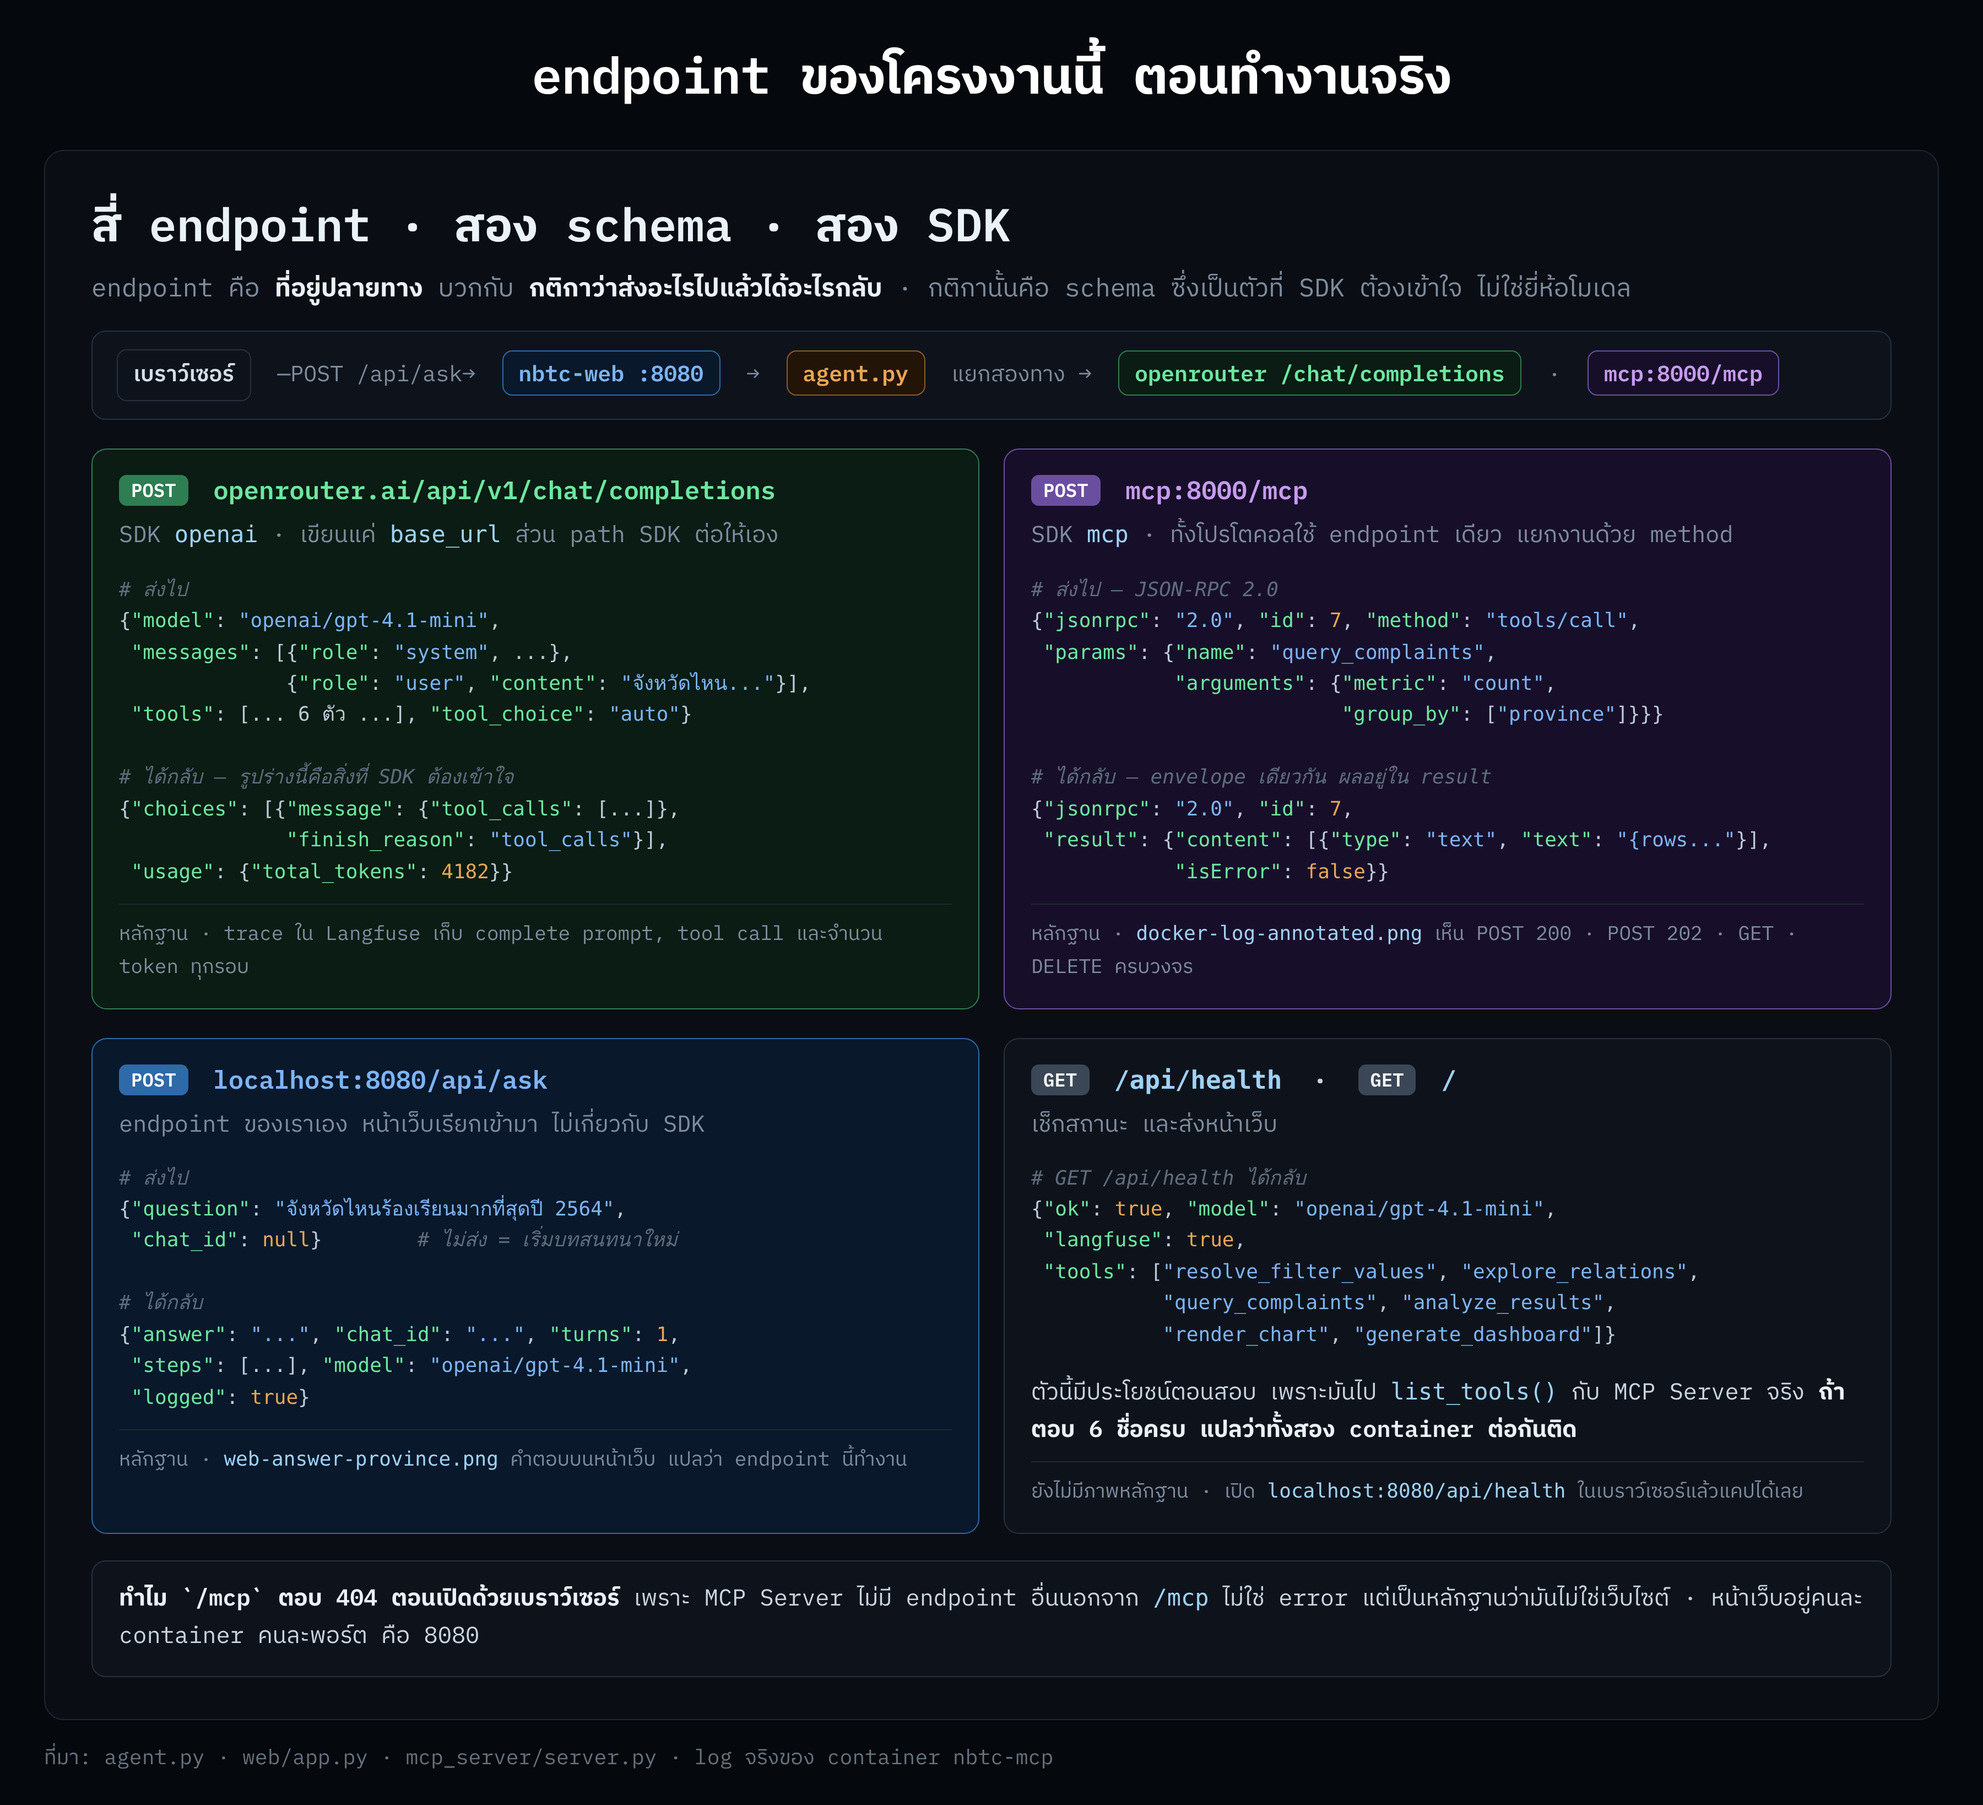
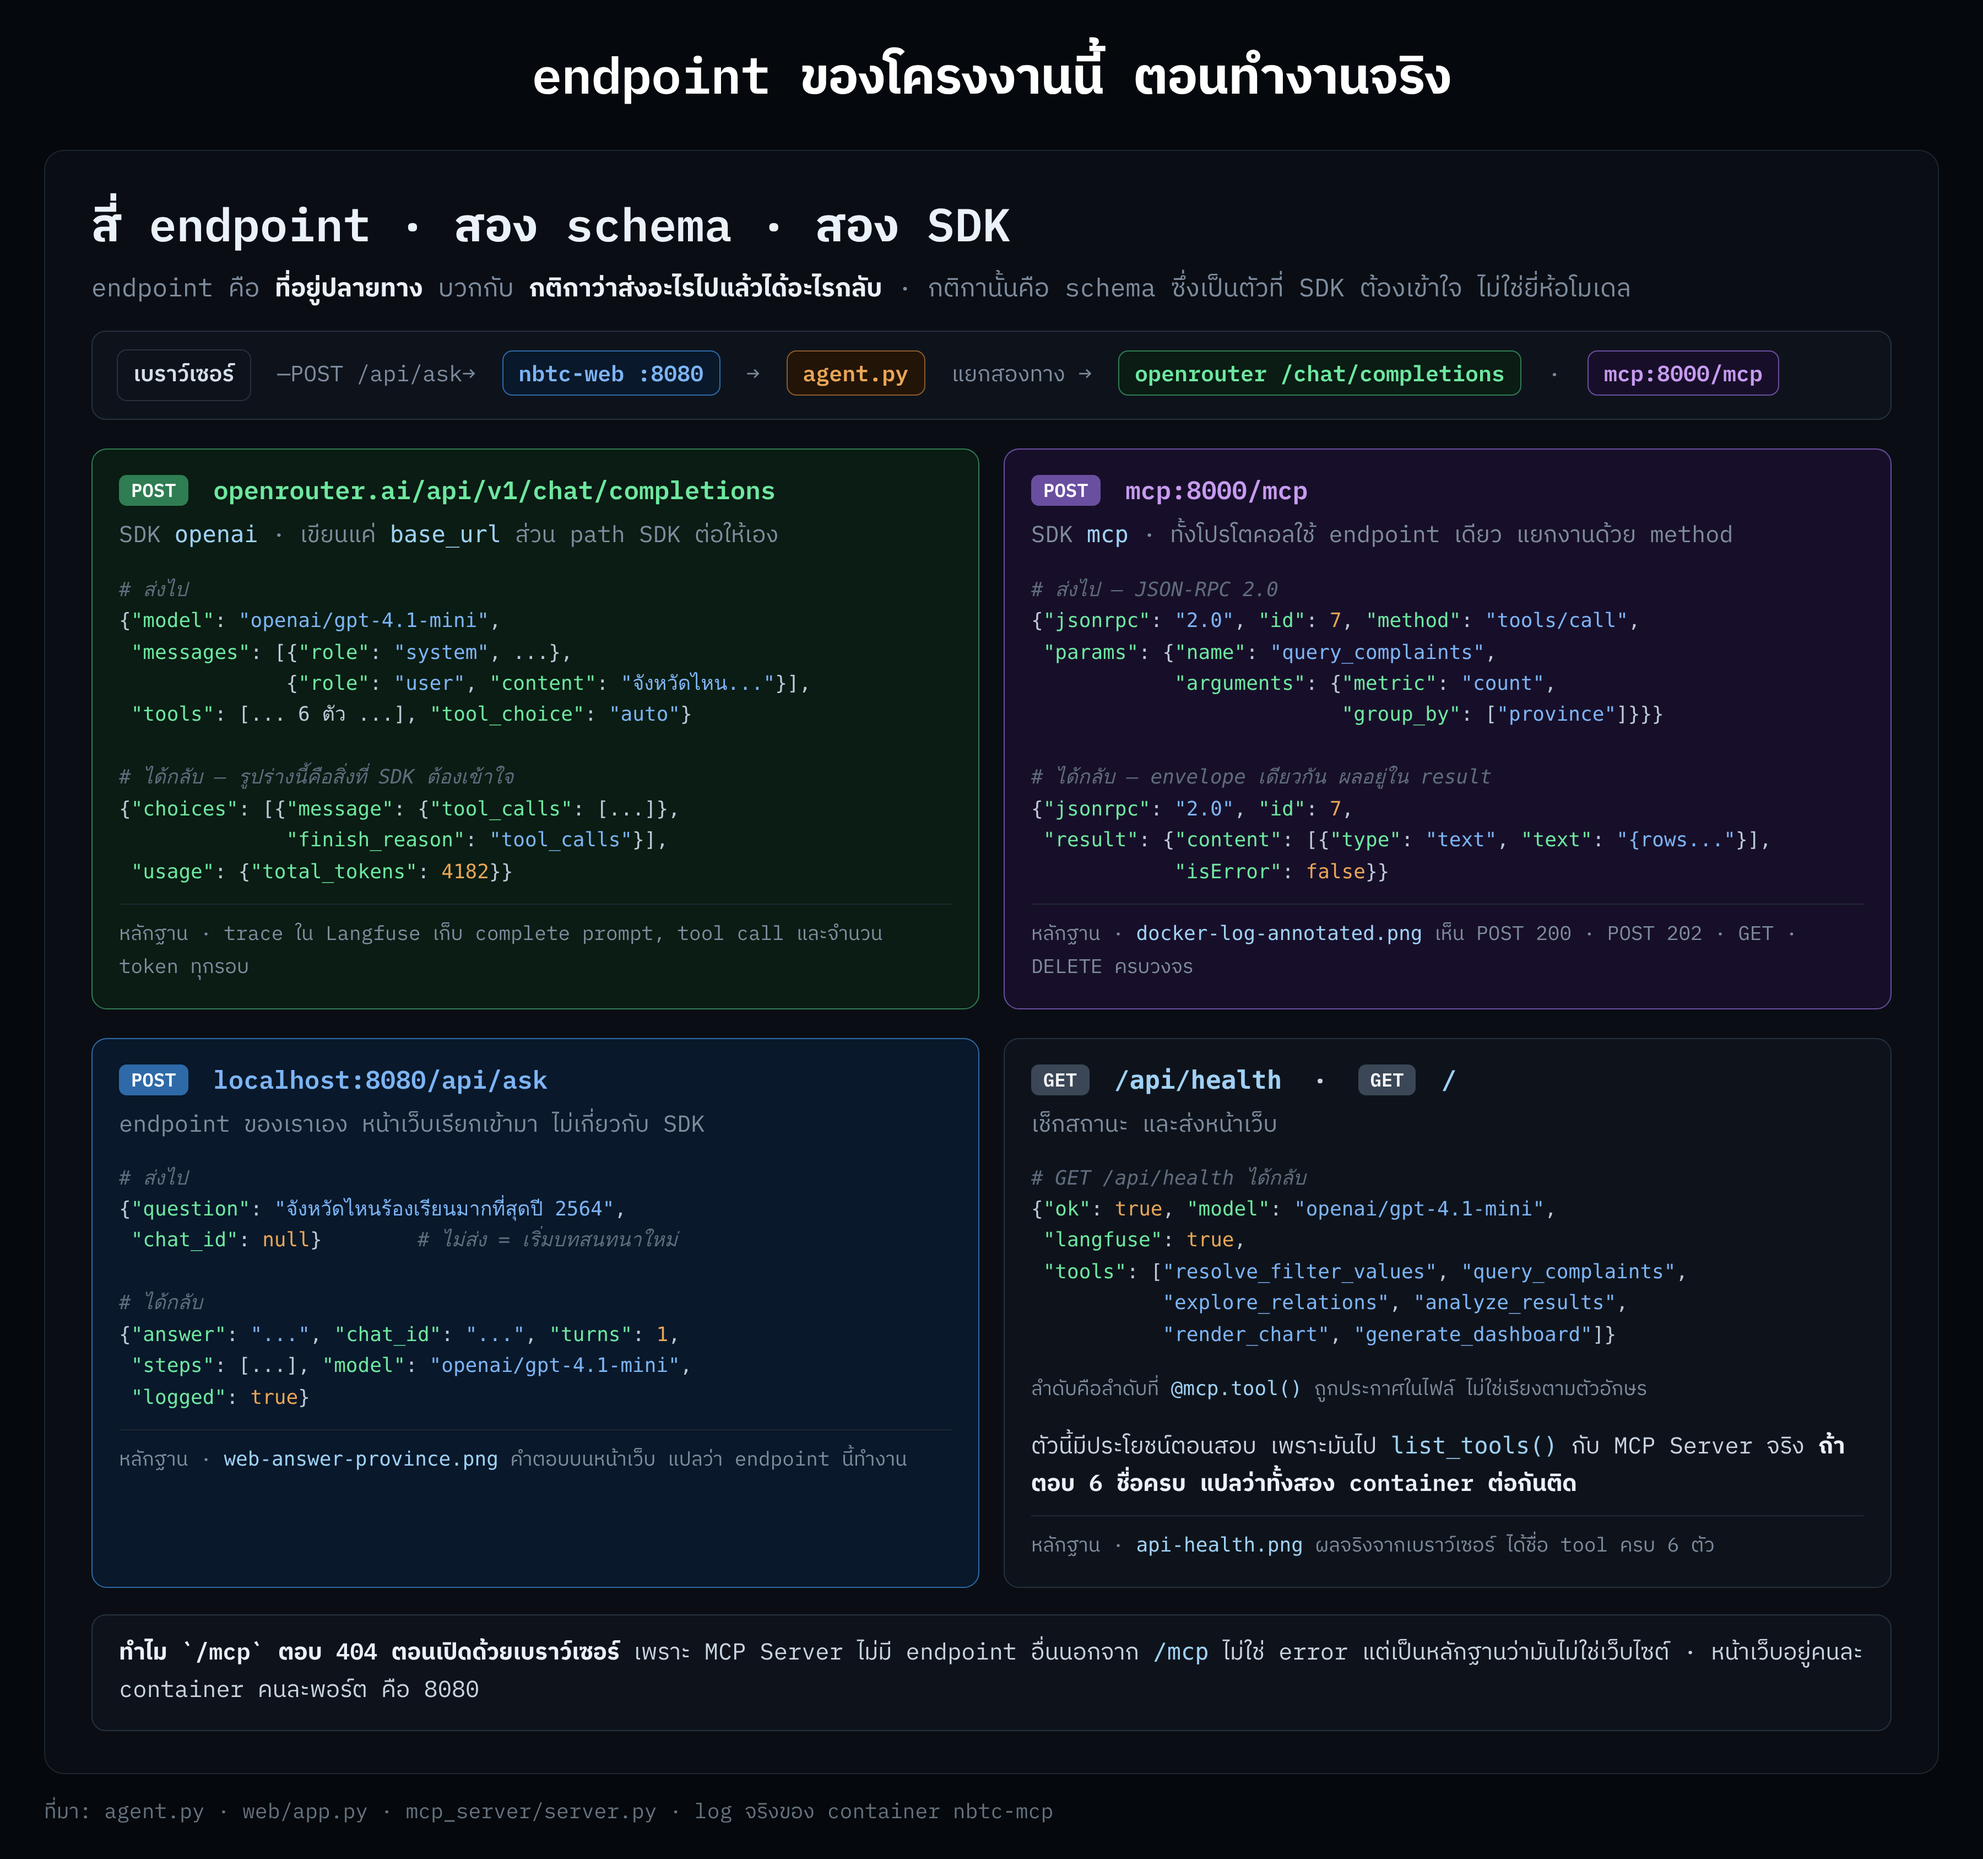
เพิ่มภาพหลักฐานของ GET /api/health และแก้ลำดับชื่อ tool ให้ตรงผลจริง
- เพิ่ม docs/images/api-health.png ทำให้ endpoint ครบสี่ตัวมีหลักฐานทั้งหมด
- ลำดับ tool ที่ list_tools คืนมาคือลำดับที่ประกาศในไฟล์ ไม่ได้เรียงตามตัวอักษร
  แก้ทั้งใน README และในภาพ endpoints.png ให้ตรงกับที่เห็นจริง

Claude-Session: https://claude.ai/code/session_01Fh7p39WwYjv7Eqv97XMUgG

diff --git a/README.md b/README.md
@@ -422,18 +422,22 @@ INFO:  192.168.65.1:62835 - "GET /favicon.ico HTTP/1.1" 404 Not Found
 | `POST /api/ask` | ![คำตอบบนหน้าเว็บ](docs/images/web-answer-province.png) | คำตอบขึ้นบนหน้าเว็บพร้อมคำเตือนที่ tool ส่งกลับมา แปลว่า endpoint นี้ทำงานครบเส้นทาง |
 | `POST /chat/completions` | [trace ใน Langfuse](#วิธีวัด) | complete prompt · reasoning · tool call และจำนวน token ทุกรอบ |
 | `GET /` ที่พอร์ต 8000 | [log ของ nbtc-mcp](#อ่าน-log-ของ-nbtc-mcp) | `404 Not Found` ซึ่งยืนยันว่า MCP Server มี endpoint เดียวคือ `/mcp` |
+| `GET /api/health` | `docs/images/api-health.png` | ได้ `ok: true` พร้อมชื่อ tool ครบ 6 ตัว ซึ่งมาจากการ `list_tools()` ข้าม container จริง |
 
 ถ้าอยากเช็กด้วยตัวเองว่าทั้งสอง container ต่อกันติดไหม เปิด `http://localhost:8080/api/health`
 endpoint นี้จะไป `list_tools()` กับ MCP Server จริง **ถ้าได้ชื่อ tool กลับมาครบ 6 ตัว แปลว่าเส้นทางทั้งหมดใช้งานได้**
+
+![ผลของ GET /api/health](docs/images/api-health.png)
+
+ลำดับชื่อ tool ที่คืนมาคือลำดับที่ `@mcp.tool()` ถูกประกาศในไฟล์ ไม่ได้เรียงตามตัวอักษร
 
 ```bash
 curl -s http://localhost:8080/api/health
 ```
 
 ```json
-{"ok": true, "model": "openai/gpt-4.1-mini", "langfuse": true,
- "tools": ["resolve_filter_values", "explore_relations", "query_complaints",
-           "analyze_results", "render_chart", "generate_dashboard"]}
+{"ok":true,"model":"openai/gpt-4.1-mini","langfuse":true,"tools":
+["resolve_filter_values","query_complaints","explore_relations","analyze_results","render_chart","generate_dashboard"]}
 ```
 
 #### FastMCP กับ MCPServer คือตัวเดียวกัน
